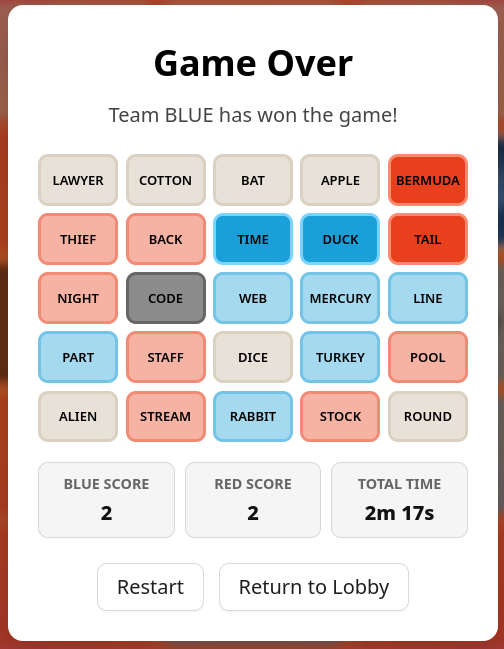
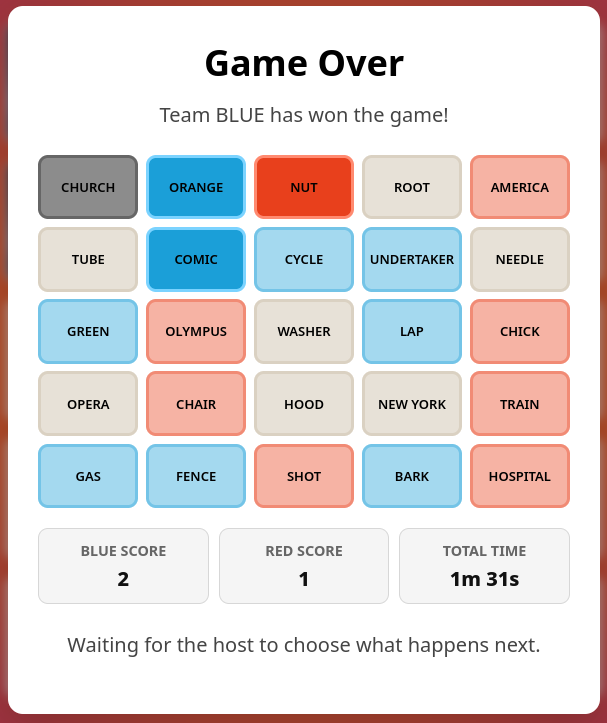
updated README

diff --git a/README.md b/README.md
@@ -73,7 +73,15 @@ New releases are automatically built and deployed when changes are pushed to the
 ## User flow
 
 The user would first create or join an existing lobby.
+
+
+<img src="./assets/homepage.png"/>
+
+
 After joining a lobby, the user chooses a username and either assign themselves, or get assigned by the host.
+<p align="middle"><img width="400vw" src="./assets/enter_username.png"/><img width="400vw" src="./assets/hostassign.png"/></p>
+
+
 In the lobby the host can configure the game: Themed words, Time limit and Round limit.
 
 
@@ -81,17 +89,36 @@ In the lobby the host can configure the game: Themed words, Time limit and Round
 
 
 Once all users are assigned the host can start the game by clicking the now enabled "Start Game" button.
-
-
 From there users can play the game. For the flow of the game and the rules, checkout [the rules.](./public/images/codenames-rules-en.pdf)
 
 
+<img src="./assets/gameboard.png"/>
+
+
+All players have access to a dictionary, where they can look up words.
+
+
+<img src="./assets/dictionary_empty.png"/>
+<img src="./assets/dictionary_entry.png"/>
+
+
+Should an illegal clue be given, the opposing spymaster can intervene.
+
+
+<img src="./assets/report.png"/>
+<img src="./assets/report_review.png"/>
+
+
 After the game has concluded, the host can decide to start the game, keeping the rules, or go back to the lobby.
+
+
 <img src="./assets/post_game_screen.png"/>
 
 
 ## Roadmap
--- ???
+- Add a guiding tutorial
+- Add coloblind mode
+
 
 ## Authors
 | Name          | Personal page                                                                                                                                  |
